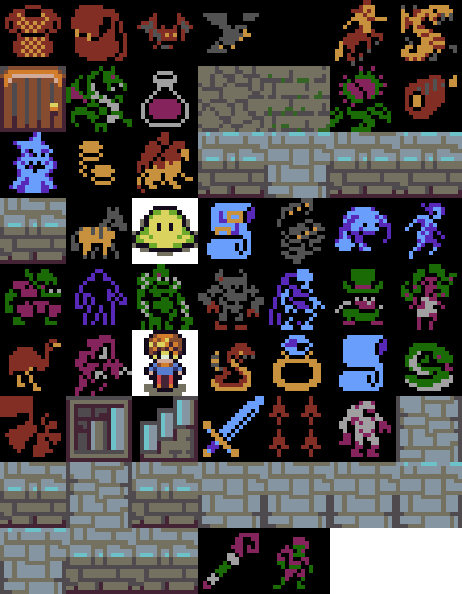
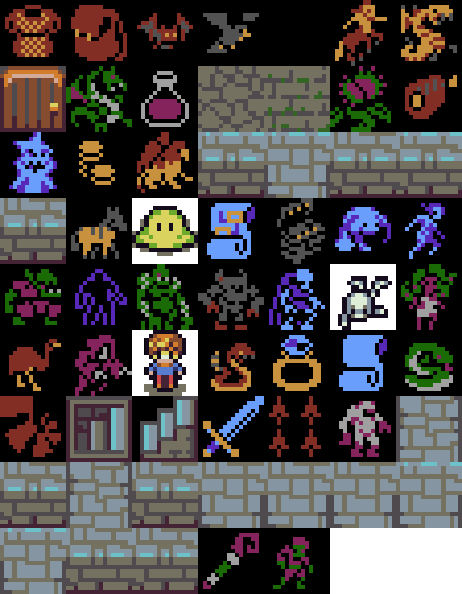
Enemies move and can be killed by walking into them

Changed region(s): [[0.697, 0.4242, 0.8788, 0.5758]]

diff --git a/Rogue.js b/Rogue.js
@@ -189,7 +189,6 @@ class Floor {
         this.placeEnemies();
         this.dijkstra = new ROT.Path.Dijkstra(this.playerX, this.playerY, function (x, y) {
             if (this.map) {
-                console.log('true');
                 return ((this.map[x+','+y] === '.') || (this.map[x+','+y] === ',') || (this.map[x+','+y] === '-') || (this.map[x+','+y] === '+'))
             } else {
                 return false;
@@ -228,19 +227,6 @@ class Floor {
                 }
                 this.mapExplored[i+","+j] = tileAlpha;
             }
-        }
-        if (this.enemies.length > 0) {
-            this.dijkstra = new ROT.Path.Dijkstra(this.playerX, this.playerY, function (x, y) {
-                if (localMap) {
-                    return ((localMap[x+','+y] === '.') || (localMap[x+','+y] === ',') || (localMap[x+','+y] === '-') || (localMap[x+','+y] === '+'))
-                } else {
-                    return false;
-                }
-            }, { topology: 4 }); 
-            this.dijkstra.compute(this.enemies[0].x, this.enemies[0].y, function(x, y) {
-                // For testing, have the alpha of all the tiles in the enemies path should have the alpha value of 1.
-                localMapExplored[x+','+y] = previouslyExploredAlpha/2;
-            });
         }
         return this.mapExplored;
     }
@@ -392,6 +378,7 @@ class Enemy {
         this.char = "";
         this.loot = [];
         this.description = "";
+        this.path = [];
         
         switch (name) {
             case 'goblin':
@@ -403,6 +390,23 @@ class Enemy {
                 break;
         }
     }
+    calculateMove(playerX, playerY, map) {
+        var dijkstra = new ROT.Path.Dijkstra(playerX, playerY, function (x, y) {
+            if (map) {
+                return ((map[x+','+y] === '.') || (map[x+','+y] === ',') || (map[x+','+y] === '-') || (map[x+','+y] === '+'))
+            } else {
+                return false;
+            }
+        }, { topology: 4 });
+        var localPath = this.path; 
+        dijkstra.compute(this.x, this.y, function(x, y) {
+            // For testing, have the alpha of all the tiles in the enemies path should have the alpha value of 1.
+            localPath.push({x:x, y:y});
+        });
+        // Remove the first spot in path because it contains the enemy's current location. We want the first spot to be where the enemy's next turn should be.
+        this.path.shift();
+        return this.path;
+    }
 }
 
-module.exports = { Dungeon, Floor};
+module.exports = { Dungeon, Floor, Enemy};

diff --git a/js/Game.js b/js/Game.js
@@ -104,10 +104,6 @@ PIXI.loader
     .load(setup);
 
 
-
-
-
-
 /**
  * setup
  * Called after PIXI loads assets. Once assets are loaded, begin adding on-screen controls and listening
@@ -350,11 +346,25 @@ function setup() {
     // Server handles are the FOV calculation. Received after every time a player makes a successful movement on the map.
     // Server lag will lead the FOV not following the player and trailing behind.
     socket.on('worldTurn', function(worldTurnData) {
-        for (var j = 0; j < mapHeight; j++) {
-            for (var i = 0; i < mapWidth; i++) {
-                var t = mapSprites[i+','+j];
-                if (t) {
-                    t.alpha = worldTurnData.fov[i+','+j];
+        if (worldTurnData.enemies && level) {
+            level.enemies = worldTurnData.enemies;
+            for (let i = 0; i < level.enemies.length; i++) {
+                currentEnemy = level.enemies[i];
+                if (enemySprites[i].texture != mapTiles['corpse']) {
+                        enemySprites[i].position.set(currentEnemy.x * tileSize, currentEnemy.y * tileSize);
+                    if (currentEnemy.health <= 0) {
+                        enemySprites[i].texture = mapTiles['corpse'];
+                    }
+                }
+            }
+        }
+        if(worldTurnData.fov) {
+            for (var j = 0; j < mapHeight; j++) {
+                for (var i = 0; i < mapWidth; i++) {
+                    var t = mapSprites[i+','+j];
+                    if (t) {
+                        t.alpha = worldTurnData.fov[i+','+j];
+                    }
                 }
             }
         }
@@ -447,6 +457,7 @@ function play(delta) {
             player.y = player_y * tileSize;
             // Player has moved. Update the server and move the player on the map.
             // FOV is still calculated server side so that will lag behind a little.
+            // If a player attacks an enemy, disable player movement until client receive world's turn from server
             socket.emit('playerTurn', {x: player_x, y: player_y});
             if (level.map[player_x+','+player_y] === '+') {
                 level.map[player_x+','+player_y] = '-';

diff --git a/server.js b/server.js
@@ -120,8 +120,26 @@ io.on('connection', function(socket) {
         if (dungeon) {
             if (playerTurnData.x && playerTurnData.y) {
                 dungeon.getCurrentFloor().setPlayerPosition(playerTurnData.x, playerTurnData.y);
+                dungeon.getCurrentFloor().enemies.forEach(function(element) {
+                    if (element.health > 0) {
+                        enemy = new Rogue.Enemy(element.name, element.x, element.y);
+                        element.path = enemy.calculateMove(playerTurnData.x, playerTurnData.y, dungeon.getCurrentFloor().map);
+                        var moveTo = element.path.shift();
+                        if (moveTo) {
+                            element.x = moveTo.x;
+                            element.y = moveTo.y;
+                            if(element.x == playerTurnData.x && element.y == playerTurnData.y) {
+                                element.health = 0;
+                            }
+                        } else {
+                            element.x = playerTurnData.x;
+                            element.y = playerTurnData.y;
+                            element.health = 0;
+                        }
+                    }
+                });
             }
-            socket.emit('worldTurn', {fov: dungeon.mapAlphaValues()});
+            socket.emit('worldTurn', {enemies: dungeon.getCurrentFloor().enemies, fov: dungeon.mapAlphaValues()});
         } else {
             socket.emit('missing', 'no dungeon');        
         }

diff --git a/README.md b/README.md
@@ -1,2 +1,3 @@
 # LabyrinthineFlight
-A roguelike web application written with Node.js, PixiJS, and rot.js.
+A roguelike web application written with Node.js, PixiJS, Socket.IO and rot.js.
+Textures are by Lanea Zimmerman (https://opengameart.org/content/tiny-16-basic), Carl Olsson (https://opengameart.org/content/loveable-rogue), and Jerom (https://opengameart.org/content/16x16-fantasy-tileset).
